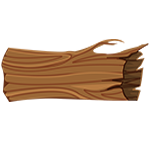
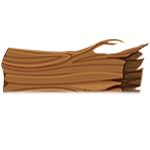
Added truck hit box, updated log graphics

Changed region(s): [[0.0267, 0.5867, 0.9333, 0.6933]]

diff --git a/Frogger/src/DrawingBoard.java b/Frogger/src/DrawingBoard.java
@@ -199,10 +199,13 @@ public class DrawingBoard extends JPanel {
 						//400x133 are image dimensions
 					
 						
-						if(frog.getPositionX()>=car.getPositionX()+50 && frog.getPositionX()<=car.getPositionX()+400
-								&& frog.getPostitionY()>=car.getPostitionY() && frog.getPostitionY()<=car.getPostitionY()+133) {
+						if((frog.getPositionX()>=car.getPositionX()+50 && frog.getPositionX()<=car.getPositionX()+400
+								&& frog.getPostitionY()>=car.getPostitionY() && frog.getPostitionY()<=car.getPostitionY()+133)||
+								(frog.getPositionX()>=car.getTruckPositionX()+50 && frog.getPositionX()<=car.getTruckPositionX()+400
+								&& frog.getPostitionY()>=car.getTruckPostitionY()+50 && frog.getPostitionY()<=car.getTruckPostitionY()+180)								
+								) {
 							
-						
+							
 							car.drawBackgroundOver(g);  
 							frog.drawDead(g);
 							isFrogDead=true;	
